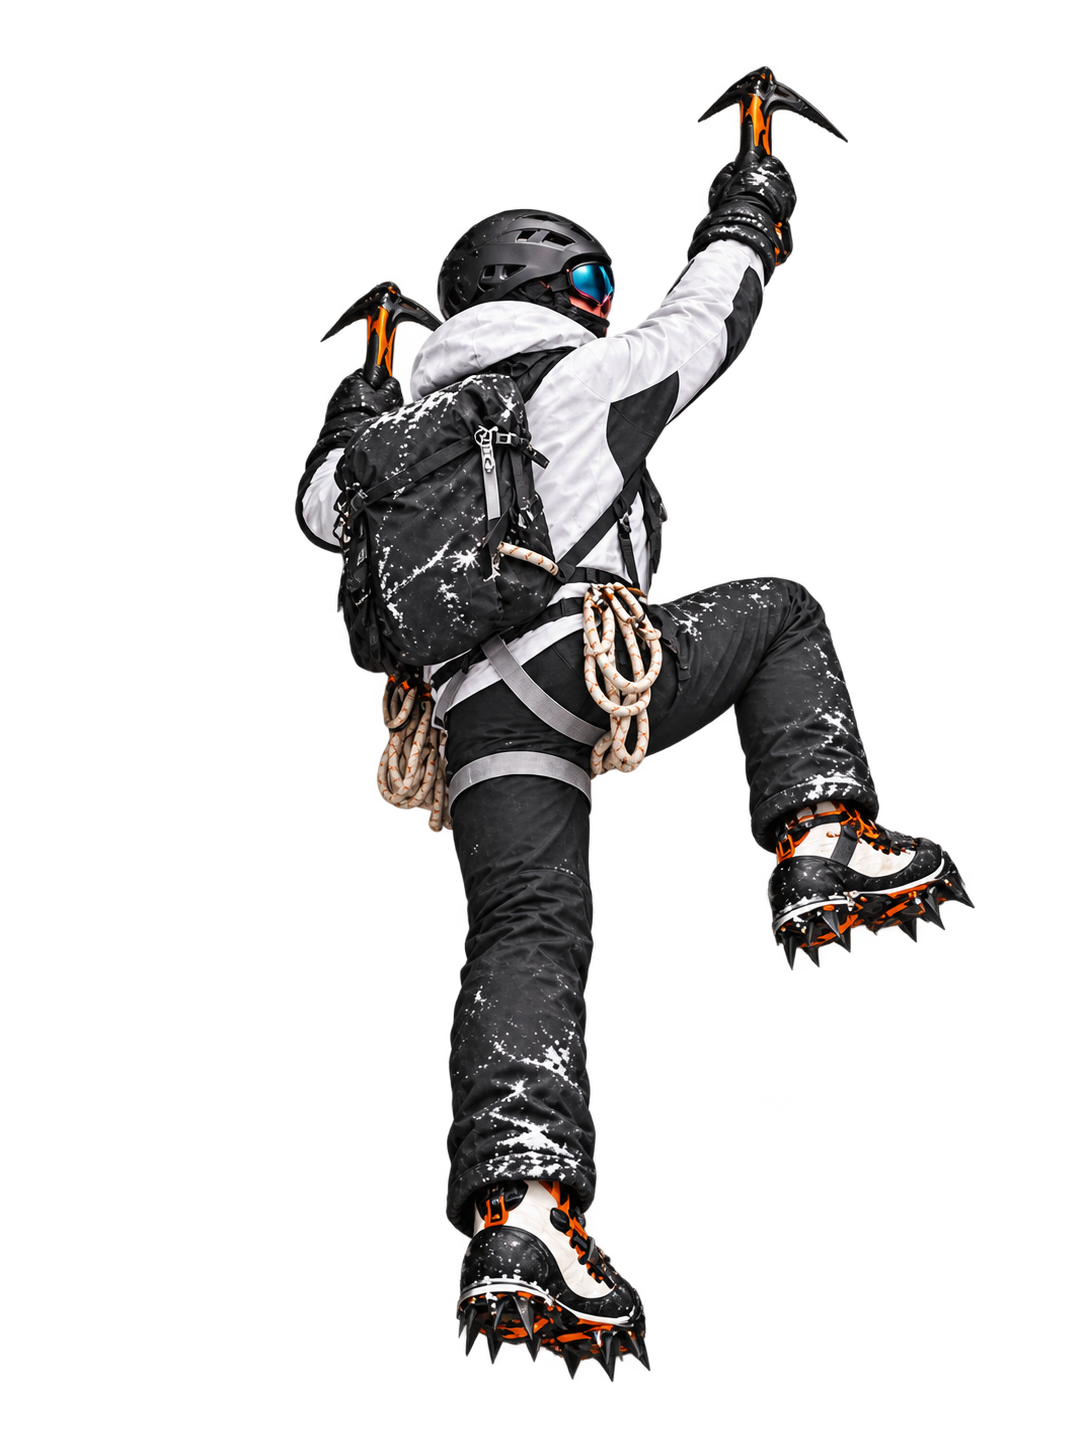
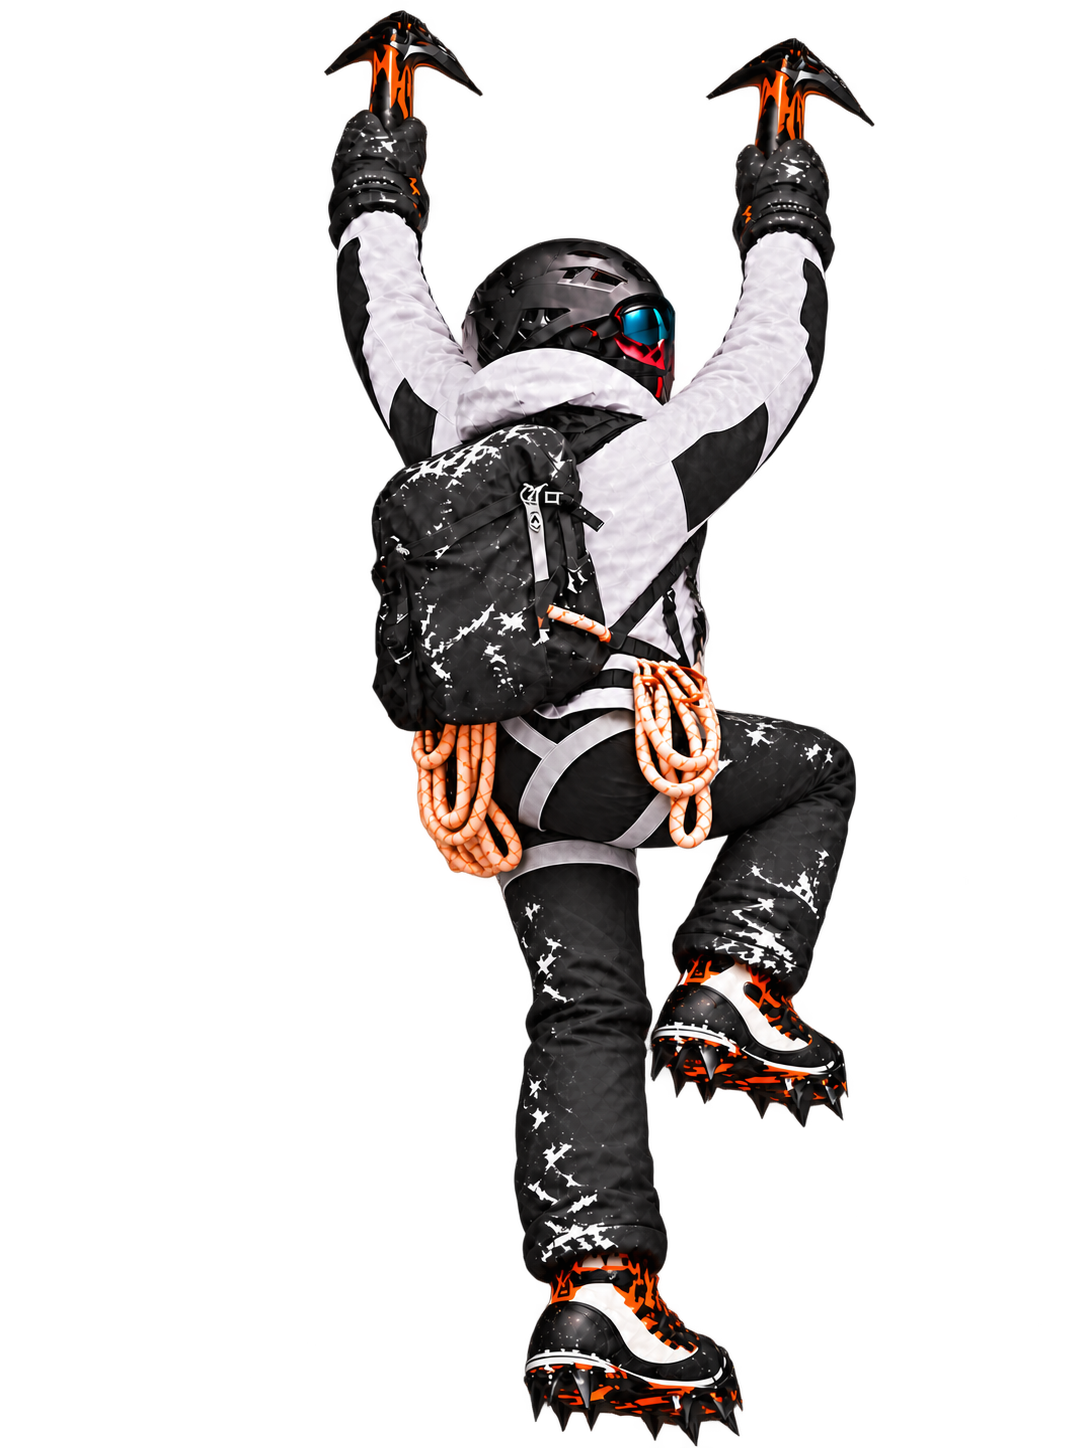
Constrain Ascent legs to three climbing states

Changed region(s): [[0.2735, 0.0, 0.9116, 1.0]]

diff --git a/_includes/expedition.html b/_includes/expedition.html
@@ -22,7 +22,7 @@
         <ellipse class="expedition-contact-shadow" data-expedition-contact rx="17" ry="5" filter="url(#expedition-contact-blur)" />
         <g class="expedition-climber" data-expedition-climber>
           <svg x="-54" y="-106" width="88" height="117" viewBox="0 0 400 533" overflow="visible">
-            <image data-climber-frame-primary href="{{ '/assets/media/ascent-climber-frame-01.webp' | relative_url }}?v=ascent-15" width="400" height="533" />
+            <image data-climber-frame-primary href="{{ '/assets/media/ascent-climber-frame-01.webp' | relative_url }}?v=ascent-16" width="400" height="533" />
           </svg>
         </g>
       </g>

diff --git a/_layouts/default.html b/_layouts/default.html
@@ -19,7 +19,7 @@
   <script src="{{ '/assets/js/site.js' | relative_url }}" defer></script>
   <script src="{{ '/assets/js/experience.js' | relative_url }}" defer></script>
   <script src="{{ '/assets/js/contact.js' | relative_url }}" defer></script>
-  {% if page.url == '/journey/' %}<script src="{{ '/assets/js/expedition.js' | relative_url }}?v=ascent-15" defer></script>{% endif %}
+  {% if page.url == '/journey/' %}<script src="{{ '/assets/js/expedition.js' | relative_url }}?v=ascent-16" defer></script>{% endif %}
 </head>
 <body data-baseurl="{{ site.baseurl }}">
   {% include header.html %}

diff --git a/PROJECT_STATUS.md b/PROJECT_STATUS.md
@@ -4,7 +4,7 @@ Updated: October 12, 2026 (America/Los_Angeles).
 
 ## Current state
 
-**The approved site design remains intact. The dedicated Ascent now uses thirteen complete black-and-white mountaineer frames.** Three intermediate drawings break up the previously abrupt far-leg lowering, and a settled stance holds across two frames in place of the foot-turn-only pose. Both boots continue to point toward the image-right wall. A single opaque full-body pose is shown at a time; one cycle still spans two entries, preserving scroll pace. The self-service Markdown workflow, original content, four navigation destinations, existing links and approved page structure remain intact. Earlier Firefox/WebKit results predate this latest refinement; their executables are unavailable in this environment. Nothing has been pushed, merged or deployed.
+**The approved site design remains intact. The dedicated Ascent uses thirteen complete black-and-white mountaineer frames with three clear leg states:** both straight, left bent/right straight, and right bent/left straight. The cycle begins with both straight, then alternates through each single-leg raise with a straight stance between them. Both boots continue to point toward the image-right wall. A single opaque full-body pose is shown at a time; one cycle still spans two entries, preserving scroll pace. The self-service Markdown workflow, original content, four navigation destinations, existing links and approved page structure remain intact. Earlier Firefox/WebKit results predate this latest refinement; their executables are unavailable in this environment. Nothing has been pushed, merged or deployed.
 
 - Active repository: `C:/Users/super/Documents/ChatGPT/portfolio website remodel/portfolio-v2`.
 - Branch: `codex/portfolio-v2`, based on `da50b14` (`main`).
@@ -13,7 +13,16 @@ Updated: October 12, 2026 (America/Los_Angeles).
 - Local preview: `http://127.0.0.1:4173/`, serving production `_site` output.
 - Parent workspace `PROJECT_STATUS.md` points here. This is the canonical handoff.
 
-## October 12 leg handover refinement — latest handoff
+## October 12 three-state leg cycle — latest handoff
+
+- Completed: replaced the partial leg-bend drawings with three unambiguous positions: frame 01 and 08–09 have both legs straight; 02–07 have the anatomical left/far leg bent and right leg straight; 10–13 have the right/near leg bent and left leg straight. The next loop begins on both straight. Each frame remains a fully opaque complete illustration; selected duplicate frames hold poses while the arm reach progresses. Kept the mountain scene, site content/layout, route, camera, scroll easing, two-entry cycle duration and right-facing outfit/tools. Regenerated all 13 WebPs and bumped Ascent asset URLs to `ascent-16`.
+- Currently in progress: none after committing this scoped correction. Local preview only, on `codex/portfolio-v2`.
+- Decisions: no limb hinges, raster rotations, crossfades, mid-knee foot pivots or runtime compositing. The three states are intentional discrete poses, not an attempt at continuous physical simulation. Sources live in `assets/img/ascent-climber-sequence/`; `npm run build:climber-frames` exports the registered frames.
+- Known issues: transitions between the three leg states are necessarily visible while very slowly scrubbing; this is a discrete illustrated gait, not 30-fps video. Generated upper-body details vary slightly between edited full-frame sources, although the existing arm reach order and overall appearance are preserved. Exact ice-tool/crampon contact remains illustrative. Real-device motion judgment, Firefox/WebKit runners, branch-only Linux CI and live custom-domain verification remain outstanding. Nothing has been pushed or merged.
+- Testing: production Jekyll build; full-size 13-frame sheet, 26-position rendered wall sheet, desktop and mobile screenshots reviewed; four real-wheel gestures sampled at 264–265 animation frames each (forward and reverse, all 13 frames in order, zero skipped poses); pixel inspection verified both boots near-level in straight poses and one clearly elevated in bent poses; focused Ascent regression, full Chrome suite (94 routes, 132 responsive pages, 22 axe checks, six interaction groups, 10 experience groups, 11 editorial groups, 10 Ascent groups), site integrity (26 originals unchanged, nine post routes, 47 pages, 1,688 local references), JavaScript syntax and Git whitespace checks all passed. Local `/journey/` responds HTTP 200.
+- **Exact recommended next task:** review the three-state gait in the local `/journey/` preview on an actual desktop and phone at slow and moderate scroll speeds, including reverse scrolling. If Aidan accepts the motion, restore Firefox/WebKit test runners, run branch-only Linux CI, and verify the custom domain before considering a production merge. Preserve the approved site and do not push or merge into `main` until those checks are complete.
+
+## October 12 leg handover refinement — earlier handoff, superseded where noted above
 
 - Completed: inserted three complete intermediate poses between the former 03 and 04 so the far knee and boot lower in stages instead of jumping directly to both boots down. Removed the former pose 05 that merely turned a foot. Repeated the settled stance for two frames. The cycle is now thirteen opaque frames over the same two-entry scroll interval. Kept the right-facing viewpoint, torso, arm sequence, mountain, scroll easing, content and layout. Regenerated the registered WebPs and bumped the Ascent cache version to `ascent-15`.
 - Currently in progress: none after committing this focused correction. The local preview remains branch-only.

diff --git a/docs/ASCENT_ART.md b/docs/ASCENT_ART.md
@@ -10,7 +10,7 @@ The mountain backdrop, close ice wall and climber poses are original generated i
 - Earlier orange climber source: `assets/img/ascent-climber-frames.png`; its first transparent pose remains at `assets/media/ascent-climber-01.webp` for provenance, but is no longer loaded by the page. That sheet did not provide the current black-and-white frame sequence.
 - Earlier black-and-white climber source: `assets/img/ascent-climber-alpine.png` (1086 × 1448, transparent); optimized single pose: `assets/media/ascent-climber-alpine.webp`. It informed the current clothing, gear and view angle. The hinged raster-limb rig that cut up this painting was removed after it repeatedly produced broken-looking joints.
 - Current animation sources: thirteen individual transparent **complete figure** drawings in `assets/img/ascent-climber-sequence/pose-01.png` through `pose-13.png`. The intermediate drawings were edited from preceding whole poses, retaining the right-facing rear-three-quarter character and right-facing tools. The gait takes its restrained alternating hand/foot rhythm from the user-supplied [ladder-climbing animation reference](https://www.youtube.com/watch?v=d-m-HuN-PkU); no ladder appears on the site. Both legs and crampon boots are visible in every image. Earlier 2 × 2 sprite sheets are preserved in Git history. `npm run build:climber-frames` aligns the goggles and exports thirteen 400 × 533 WebPs. `node scripts/preview_climber_frames.cjs` and `node scripts/preview_climber_motion.cjs` produce visual QA contact sheets in `test-results/`.
-- The thirteen whole-body frames span **two** journal entries, retaining the approved scroll pace. Three new complete drawings break up the former hard transition from far boot raised to both boots down. The former foot-turn-only drawing was removed; frames 07 and 08 intentionally hold the same settled stance. Only one complete image is visible at a time; the whole-image crossfade remains removed because it made the climber translucent. No separate arms, legs, jacket panels or gear are rotated or resized. The sequence was checked as a frame contact sheet and at 26 positions in the rendered wall scene. This remains an illustrated sequence, not filmed or physically simulated climbing; discrete changes and the next leg takeoff are still perceptible while scrubbing slowly. Reduced-motion holds the first pose. The outfit is unbranded black-and-white alpine technical gear. Asset/script URL version: `ascent-15`.
+- The thirteen whole-body frames span **two** journal entries, retaining the approved scroll pace. Leg motion is constrained to three clear states: both legs straight (01, 08–09), anatomical left/far leg bent while right supports straight (02–07), and anatomical right/near leg bent while left supports straight (10–13). The sequence returns from right-bent to the both-straight first frame. Identical pairs hold selected poses while the existing arm reach order continues across the cycle. Intermediate half-bends and boot-only turns were removed. Only one complete image is visible at a time; the whole-image crossfade remains removed because it made the climber translucent. No separate arms, legs, jacket panels or gear are rotated or resized. The sequence was checked as a frame contact sheet and at 26 positions in the rendered wall scene. This remains an illustrated sequence, not filmed or physically simulated climbing; state changes are discrete. Reduced-motion holds the both-straight first pose. The outfit is unbranded black-and-white alpine technical gear. Asset/script URL version: `ascent-16`.
 - The Home identity section reuses the existing Everest illustration through its 800 px WebP derivative. No new mountain asset was generated.
 
 Movement references: [Petzl's ice-climbing technique video](https://www.petzl.com/int/en/sport/tech-tips/basic-techniques/ice-climbing-technique---the-basics/Cascade-gestuelle_SPO_a771r000000PFoJAAW.html), [Petzl's Ice Climbing Basics access book](https://s3.amazonaws.com/Petzl_home_Prod/Accessbook/ACCESSBOOK-ICE-CLIMBING-EN-2018.pdf), and [REI's ice-climbing guidance](https://www.rei.com/learn/expert-advice/ice-climbing-waterfalls-alpine-walls.html) emphasize stable tool/foot placements and rising through the legs. These sources informed the illustration's rhythm; the individual drawn poses are not climbing instruction or a physical simulation.
